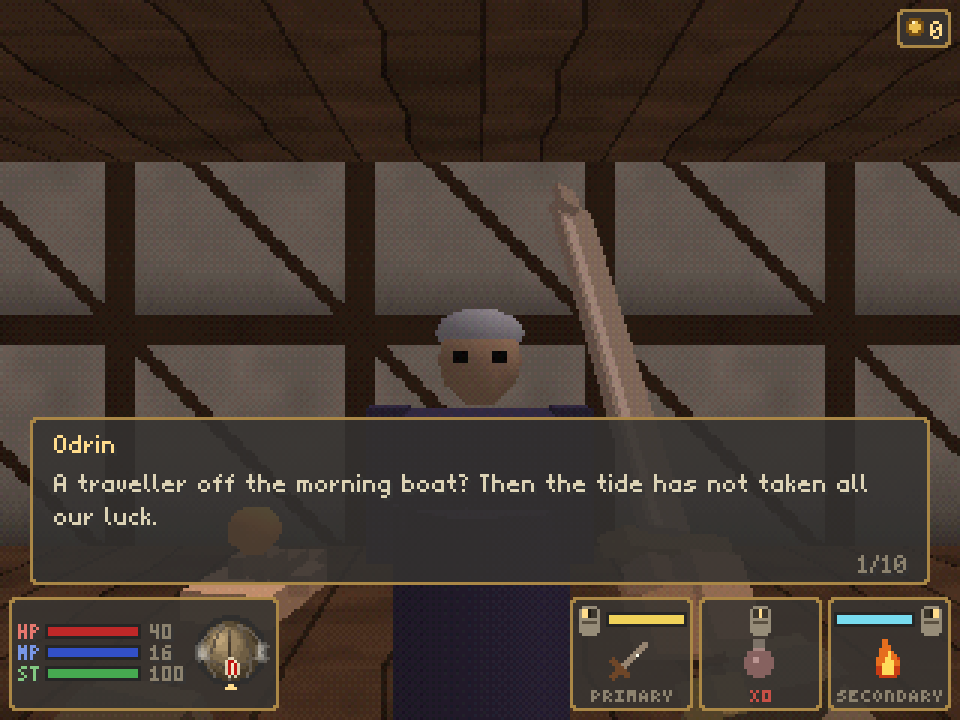
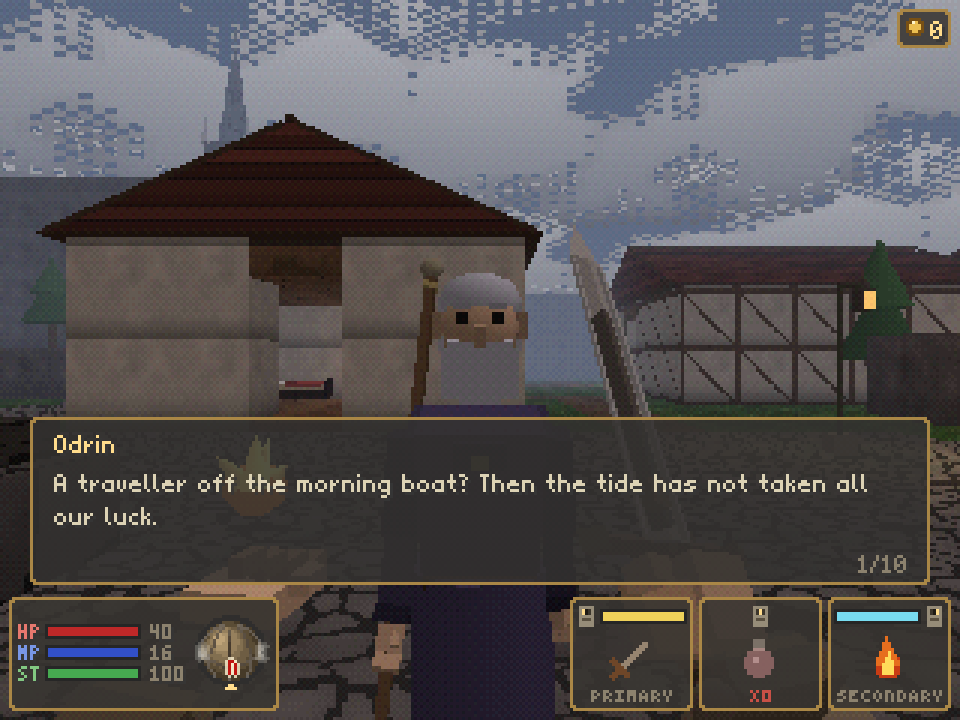
Document the rebuilt Harrowmere and retake its screenshots
AGENTS.md describes the town's layout, lists render/town_models.py and
world/villagers.py, the new blocking and wall props, the shops and gifts,
and gives fresh smoke-run starts for the square, the cathedral, the
forge, the well court, Odrin, Corvane, the gate and the trail. The
README's features describe the town and its villagers, and the title,
village, dialogue, Belongings, Corvane and jungle trail screenshots are
retaken, with new ones of the cathedral and the forge.

diff --git a/AGENTS.md b/AGENTS.md
@@ -64,16 +64,19 @@ ASHEN_VAULT_SAVE=/tmp/ashen_test_save.json \
   the Undercroft), `--at=11,26,90 --script "interact strafe_l:0.7 wait:5"` (free the shrine lift and
   ride it up), `--at=23,13,0 --script "forward:0.7 wait:5"` (the cage lift up to the Warden's Gallery),
   `--at=27,7,-90` (the Butcher in his slaughter hall north of the Gallery),
-  `--map harrowmere --at=32,14,-90` (the hedged jungle trail; `--at=41,18,-90` its dark end at the cave
+  `--map harrowmere --at=47,30,0` (the hedged jungle trail; `--at=56,34,-90` its dark end at the cave
   mouth), `--map verdant_hollow`
   (Mossmouth, the dark cave you arrive in), `--at=15,31,180 --equip left=spell:pyre --script "cast"`
   (kindle Mossmouth's cold brazier), `--at=6,41,-90` (the Root Caverns), `--at=32,3,180` (the Canopy
   Walk), `--at=15,20,-90 --script interact` (the barred door, from its wrong side),
   `--at=14,41,-90 --script "interact wait:2.5 strafe_l:2"` (lower the drawbridge and cross),
   `--at=49,12,-90` (the Highland log slope), `--at=15,7,-90` (the Loom Mother),
-  `--at=15,7,-90` (the Ashen Warden in his hall), `--map harrowmere --at=16,4,-90 --script "wait:0.2
-  interact"` (Odrin's dialogue box), `--map harrowmere --at=6,18,180 --script "forward:1 interact"` (Corvane; below
-  `--level 5` they stay silent), `--map harrowmere --at=25,4,-90` (the north road's gate),
+  `--at=15,7,-90` (the Ashen Warden in his hall), `--map harrowmere --at=28,25,-90 --script "wait:0.2
+  interact"` (Odrin's dialogue box, by the Silent Bell), `--map harrowmere --at=6,26,180 --script "forward:2 interact"`
+  (Corvane; below `--level 5` they stay silent), `--map harrowmere --at=31,4,-90` (the north road's gate),
+  `--map harrowmere --at=22,30,-60` (the Bell Square), `--map harrowmere --at=17,6,180` (the cathedral's nave;
+  `--at=6,6,180 --script "wait:0.2 interact"` speaks to the Enthroned), `--map harrowmere --at=7,18,180 --script
+  "wait:0.2 interact"` (Brannoc's gift and forge), `--map harrowmere --at=37,20,0` (the sunken well court),
   `--map cinderhold --at=29,52,-90 --script "look_up:0.15"` (the long bridge and the fortress's skyline), `--map cinderhold --at=28,30,180`
   (the postern ledge and its flame jets), `--map cinderhold --at=18,17,180` (the foundry),
   `--map cinderhold --at=5,24,0` (the smelter pits), `--map cinderhold --at=30,6,180 --level 10`
@@ -93,7 +96,7 @@ ASHEN_VAULT_SAVE=/tmp/ashen_test_save.json \
 | `src/ashen_vault/ui/hud.py` | HUD, menus, dialogue boxes |
 | `src/ashen_vault/audio/synth.py` | Synthesized sound effects |
 | `src/ashen_vault/input.py` | Key bindings and the `--script` driver |
-| `src/ashen_vault/maps/*.map` | Plain-text tile maps: `[meta]`, `[legend]`, `[grid]`, `[entities]`. `harrowmere` (the village), `sunken_keep` (the dungeon below the well, with the Undercroft below its cells and the Warden's Gallery above the boss door, the Butcher's slaughter hall north of it), `verdant_hollow` (the jungle through the cave at the end of the village's east trail: Mossmouth cave, the Root Caverns below the bog, the Canopy Walk to the boss), `cinderhold` (the lava fortress up the north road: the long bridge, the gatehouse and postern, the foundry and the smelter pits below it, the ashworks, the rampart, and the roof where the twin gargoyles perch) |
+| `src/ashen_vault/maps/*.map` | Plain-text tile maps: `[meta]`, `[legend]`, `[grid]`, `[entities]`. `harrowmere` (the town, climbing from its harbour past the market and the Bell Square, with the Silent Bell, to the cathedral on the hill where the Enthroned sits; the sunken well court, the trail gap and the north gate lead out), `sunken_keep` (the dungeon below the well, with the Undercroft below its cells and the Warden's Gallery above the boss door, the Butcher's slaughter hall north of it), `verdant_hollow` (the jungle through the cave at the end of the village's east trail: Mossmouth cave, the Root Caverns below the bog, the Canopy Walk to the boss), `cinderhold` (the lava fortress up the north road: the long bridge, the gatehouse and postern, the foundry and the smelter pits below it, the ashworks, the rampart, and the roof where the twin gargoyles perch) |
 | `src/ashen_vault/world/sky.py`, `render/sky.py` | Skies (`[meta] sky = overcast\|jungle\|ember`): a gradient dome meeting the fog at the horizon, a sun and halo, drifting cloud banks and an overhead cap, horizon mist; dimmed by darkness and the Veil. Built pure in `world/sky.py`, drawn first each frame without fog or depth by `render/sky.py` |
 | `src/ashen_vault/world/darkness.py` | Dark tiles: how your light and the fog close in, Lumen and the Veil of Mist |
 | `src/ashen_vault/world/doors.py` | One-way doors (`door from=`): which side lifts the bar |
@@ -104,6 +107,8 @@ ASHEN_VAULT_SAVE=/tmp/ashen_test_save.json \
 | `src/ashen_vault/world/hazards.py` | Dungeon traps: floor spikes, pendulum blades, crumbling floors, flame jets, magma vents (whose bombs are `Eruption`s with an `origin`); the bosses' fire eruptions and slam shockwaves |
 | `src/ashen_vault/world/elements.py` | Elements: lightning against `conductive` foes, fire against `fireproof` ones, which weapons burn |
 | `src/ashen_vault/render/forge_models.py` | The Cinderhold's models (golem, bowman, hound, the gargoyles, Stormbrand and Slagbreaker, arrows, thunder and motes, flame jets, and the skyline: spires, bastions, smokestacks, the gatehouse, the keep, lavafalls); `models` imports it last and borrows its helpers |
+| `src/ashen_vault/render/town_models.py` | Harrowmere's models: gabled `roof`s (one per building, on its NW wall tile with `span=W,D ridge=x\|z`), the `silent_bell`, the `cathedral_spire`, pews, windows, beds, cupboards, shelves, hearths, market stalls, fences, lamp posts and boats |
+| `src/ashen_vault/world/villagers.py` | How each villager looks (`Look`: build, garb, hair, hat, beard, apron, cloak, held tool, idle) |
 | `src/ashen_vault/render/shapes.py` | Model primitives raylib lacks (`blade`, `lozenge`, `wedge`) as pure triangle lists; `Gpu.primitive` uploads them |
 | `src/ashen_vault/world/terrain.py` | Terrain: rafts, planks, ledges, rotten floorboards, chain lifts, currents, thorns, chasm and river falls, hard landings, the log rack, spore pods (`World.terrain`) |
 | `src/ashen_vault/world/rest.py` | The shrine rest: timing and the pixelated ember fog pattern drawn while you pray |
@@ -198,7 +203,8 @@ ASHEN_VAULT_SAVE=/tmp/ashen_test_save.json \
   the arm. `tests/test_render_logic.py` checks the wrist stays within 150 degrees of the forearm's line.
 - Props that fill their tile are listed in `world/world.py` (`BLOCKING_PROPS`, `BREAKABLE_PROPS`;
   the keep adds `pillar`, `sarcophagus` and `headsman_block`, the jungle `bonfire`, `giant_mushroom` and
-  `totem`). Decor that blocks nothing: `cage`, `roots` and `meat_hooks` hang from the ceiling, `grate` sits in the
+  `totem`, the town `pew`, `bed`, `cupboard`, `stall`, `fence` and `lamp_post`). Decor that blocks nothing:
+  `boat` rides on water, `shelf`, `hearth` and `window` hang on a wall (the last two are lights), `cage`, `roots` and `meat_hooks` hang from the ceiling, `grate` sits in the
   floor, `mushrooms` dot it, and `cobweb`, `skull_niche`, `winch`, `lever` and `shelf_fungus` mount on
   the nearest wall (`WALL_PROPS`). `lever model=wood` is the jungle's wooden lever.
   Light comes from `mesh_builder.LIGHT_KINDS` (torches, braziers, fungus, bonfires, the glowing
@@ -274,8 +280,13 @@ ASHEN_VAULT_SAVE=/tmp/ashen_test_save.json \
   projectiles (`World.motes`, steered by `shots.home`), Pyre is a short cone (`World.pyre`), Veil of Mist sets `Player.veil_t` (ordinary foes then
   notice you only very close; striking or casting anything else lifts it), Lumen sets `lumen_t`. A new
   spell also needs a HUD icon (`hud.spell_icon`) and colours in `models.SPELL_GLOW` / `SPELL_ORB`.
-- Shops are `dialogue.SHOPS` (Pell's goods, and Corvane's blades in the hut west of the square; Corvane
-  won't talk below `CORVANE_LEVEL`).
+- Shops are `dialogue.SHOPS`: Brannoc's forged steel and armour, Pell's scrolls and salvage, Tamsin's remedies,
+  and Corvane's blades in the hut on the town's west edge (Corvane won't talk below `CORVANE_LEVEL`).
+  Villagers in `dialogue.GIFTS` hand a newcomer something once (`gift:<id>` flag) and then open their shop,
+  if they keep one.
+- Villagers are drawn by `models.npc` from a `world/villagers.Look` (build, clothes, hair, hat, held tool,
+  idle); a new villager needs an entry in `villagers.LOOKS`. The Enthroned (`npc id=enthroned`) is its own
+  model, seated on `models.throne`.
 - Add dependencies with `uv add` (runtime) or `uv add --dev` (tooling), never by hand-editing
   `uv.lock`.
 

diff --git a/README.md b/README.md
@@ -32,12 +32,12 @@ FromSoftware, Inc.
 
 <table>
   <tr>
-    <td><img src="docs/screenshots/title.png" alt="Title screen over the foggy village square"></td>
-    <td><img src="docs/screenshots/village.png" alt="Harrowmere's cobbled square, with the shrine and the well"></td>
+    <td><img src="docs/screenshots/title.png" alt="Title screen circling the Silent Bell in the foggy Bell Square"></td>
+    <td><img src="docs/screenshots/village.png" alt="The Silent Bell in its frame on Harrowmere's Bell Square, the cathedral spire behind"></td>
   </tr>
   <tr>
     <td align="center"><sub>Title screen</sub></td>
-    <td align="center"><sub>Harrowmere, the village above the keep</sub></td>
+    <td align="center"><sub>The Silent Bell, at the heart of Harrowmere</sub></td>
   </tr>
   <tr>
     <td><img src="docs/screenshots/dialogue.png" alt="Talking to Odrin the bell-keeper"></td>
@@ -94,6 +94,14 @@ FromSoftware, Inc.
   <tr>
     <td align="center"><sub>Katana and shield, one in each hand</sub></td>
     <td align="center"><sub>Corvane's blades, for those who have proven themselves</sub></td>
+  </tr>
+  <tr>
+    <td><img src="docs/screenshots/cathedral.png" alt="The cathedral's nave, pews and pillars leading to the Enthroned on the throne"></td>
+    <td><img src="docs/screenshots/forge.png" alt="Brannoc the smith hammering at his anvil in the forge"></td>
+  </tr>
+  <tr>
+    <td align="center"><sub>The cathedral, where the Enthroned sits</sub></td>
+    <td align="center"><sub>Brannoc's forge</sub></td>
   </tr>
   <tr>
     <td><img src="docs/screenshots/undercroft_lift.png" alt="Riding a barred cage lift down a shaft toward a wall of skulls and bones"></td>
@@ -156,10 +164,14 @@ FromSoftware, Inc.
   the Slagbreaker maul sets what it strikes alight.
 - **Stamina**: sprinting, swinging and blocking drain a green stamina bar. Run it dry and you are
   winded until it recovers.
-- **Four hand-built areas**: the village of Harrowmere, the Sunken Keep below its well, the
+- **Four hand-built areas**: the town of Harrowmere, the Sunken Keep below its well, the
   Verdant Hollow at the end of the green trail and the Cinderhold up the north road, with locked doors,
-  levers, a flooded cellar, chests, a shop with spinning item previews and five villagers to talk to
-  (one of them only once you have proven yourself).
+  levers, a flooded cellar and chests.
+- **A town to come home to**: Harrowmere climbs from its harbour through a market and the Bell Square,
+  where the cracked Silent Bell hangs, to a cathedral on the hill where an ancient figure sits enthroned.
+  Ten villagers live there: a smith, a herbalist, a trader and a swordsmith keep shops with spinning
+  item previews (the swordsmith only for those who have proven themselves), and some hand a newcomer a
+  weapon, a shield, remedies or a scroll.
 - **A keep that fights back**: floor spikes, swinging pendulum blades and floors that crumble into the
   dark, plus barrels, crates and urns to smash for a few coins, and secrets for those who look closely.
 - **A keep that folds back on itself**: barred cage lifts sink to a skull-walled Undercroft below the
@@ -403,12 +415,14 @@ uv run ashen-vault --map sunken_keep --at 15,21,180 --smoke 100 --script "wait:1
 
 The README screenshots were taken this way, each with `ASHEN_VAULT_SAVE` pointing at a fresh throwaway
 file. The title is `uv run ashen-vault --smoke 60 --shot title.png` and the village
-`uv run ashen-vault --map harrowmere --smoke 40 --shot village.png`; Odrin is
-`uv run ashen-vault --map harrowmere --at=16,4,-90 --smoke 40 --script "wait:0.2 interact" --shot dialogue.png`,
+`uv run ashen-vault --map harrowmere --at=22,30,-60 --smoke 40 --shot village.png`; Odrin is
+`uv run ashen-vault --map harrowmere --at=28,25,-90 --smoke 40 --script "wait:0.2 interact" --shot dialogue.png`,
 Belongings is
 `uv run ashen-vault --map harrowmere --level 6 --equip primary=katana,secondary=round_shield,body=brigandine,hands=chain_mitts --smoke 40 --script "wait:0.2 menu" --shot inventory.png`,
 Corvane's shop is
-`uv run ashen-vault --map harrowmere --at=6,18,180 --level 7 --smoke 200 --script "forward:1 interact wait:0.3 confirm wait:0.3 confirm wait:0.3 confirm wait:0.3 confirm" --shot corvane.png`,
+`uv run ashen-vault --map harrowmere --at=6,26,180 --level 7 --smoke 220 --script "forward:2 interact wait:0.3 confirm wait:0.3 confirm wait:0.3 confirm wait:0.3 confirm" --shot corvane.png`,
+the cathedral is `uv run ashen-vault --map harrowmere --at=18,6,180 --smoke 40 --shot cathedral.png`,
+the forge is `uv run ashen-vault --map harrowmere --at=8,18,180 --smoke 40 --shot forge.png`,
 the Warden is `uv run ashen-vault --map sunken_keep --at=15,7,-90 --smoke 40 --shot warden.png`,
 the hollow's vine path is `uv run ashen-vault --map verdant_hollow --at=9,12,90 --smoke 40 --shot verdant_hollow.png`,
 the Bark Husk is `uv run ashen-vault --map verdant_hollow --at=26,17,-90 --smoke 60 --shot bark_husk.png`,
@@ -419,7 +433,7 @@ the Loom Mother is `uv run ashen-vault --map verdant_hollow --at=15,7,-90 --smok
 the lift ride is
 `uv run ashen-vault --map sunken_keep --at 4,24,90 --smoke 560 --script "forward:0.9 wait:5 forward:0.3" --shot undercroft_lift.png`,
 the Butcher is `uv run ashen-vault --map sunken_keep --at=27,7,-90 --smoke 20 --shot gallery.png`,
-the jungle trail is `uv run ashen-vault --map harrowmere --at=41,18,-90 --smoke 40 --shot jungle_trail.png`,
+the jungle trail is `uv run ashen-vault --map harrowmere --at=56,34,-90 --smoke 40 --shot jungle_trail.png`,
 Mossmouth is
 `uv run ashen-vault --map verdant_hollow --at=15,31,180 --equip left=spell:pyre --script "wait:0.3 cast wait:3" --smoke 120 --shot mossmouth.png`,
 the canopy is `uv run ashen-vault --map verdant_hollow --at=31,3,180 --script "look_down:0.12" --smoke 40 --shot canopy_walk.png`,
